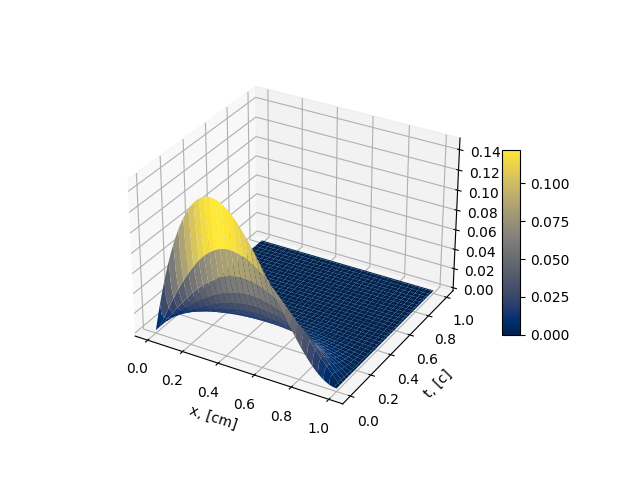
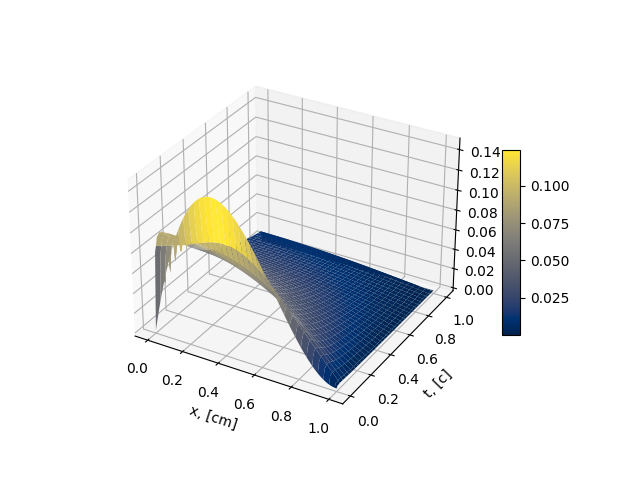
Fix

diff --git a/lesson_10/crank.py b/lesson_10/crank.py
@@ -10,6 +10,10 @@ tau = T / k
 a, b, c, d, q = np.zeros(n), np.zeros(n), np.zeros(n), np.zeros(n), np.zeros(n)
 p = np.zeros((n + 1, k + 1))
 
+a[0], a[-1] = 0, 0
+b[0], b[-1] = -1 / h, 1
+c[0], c[-1] = 1 / h, 0
+d[0], d[-1] = 0, 0
 
 for i, j in np.ndindex(p.shape):
     if i == 0:
@@ -25,17 +29,15 @@ for m in range(1, k):
         c[i] = -1 * tau / (2 * h**2)
         d[i] = p[i][m - 1] + tau / 2 * ((p[i + 1][m - 1] - 2 * p[i][m - 1] + p[i - 1][m - 1]) / h**2)
 
-    a[1], c[n - 1] = 0, 0
-
-    for i in range(2, n):
+    for i in range(1, n):
         dzeta = a[i] / b[i - 1]
         a[i] = 0
         b[i] -= dzeta * c[i - 1]
         d[i] -= dzeta * d[i - 1]
 
-    p[n - 1][m] = d[n - 1] / b[n - 1]
+    p[-1][m] = d[-1] / b[-1]
 
-    for i in range(n - 2, 0, -1):
+    for i in range(n - 1, -1, -1):
         p[i][m] = (d[i] - c[i] * p[i + 1][m]) / b[i]
 
 
